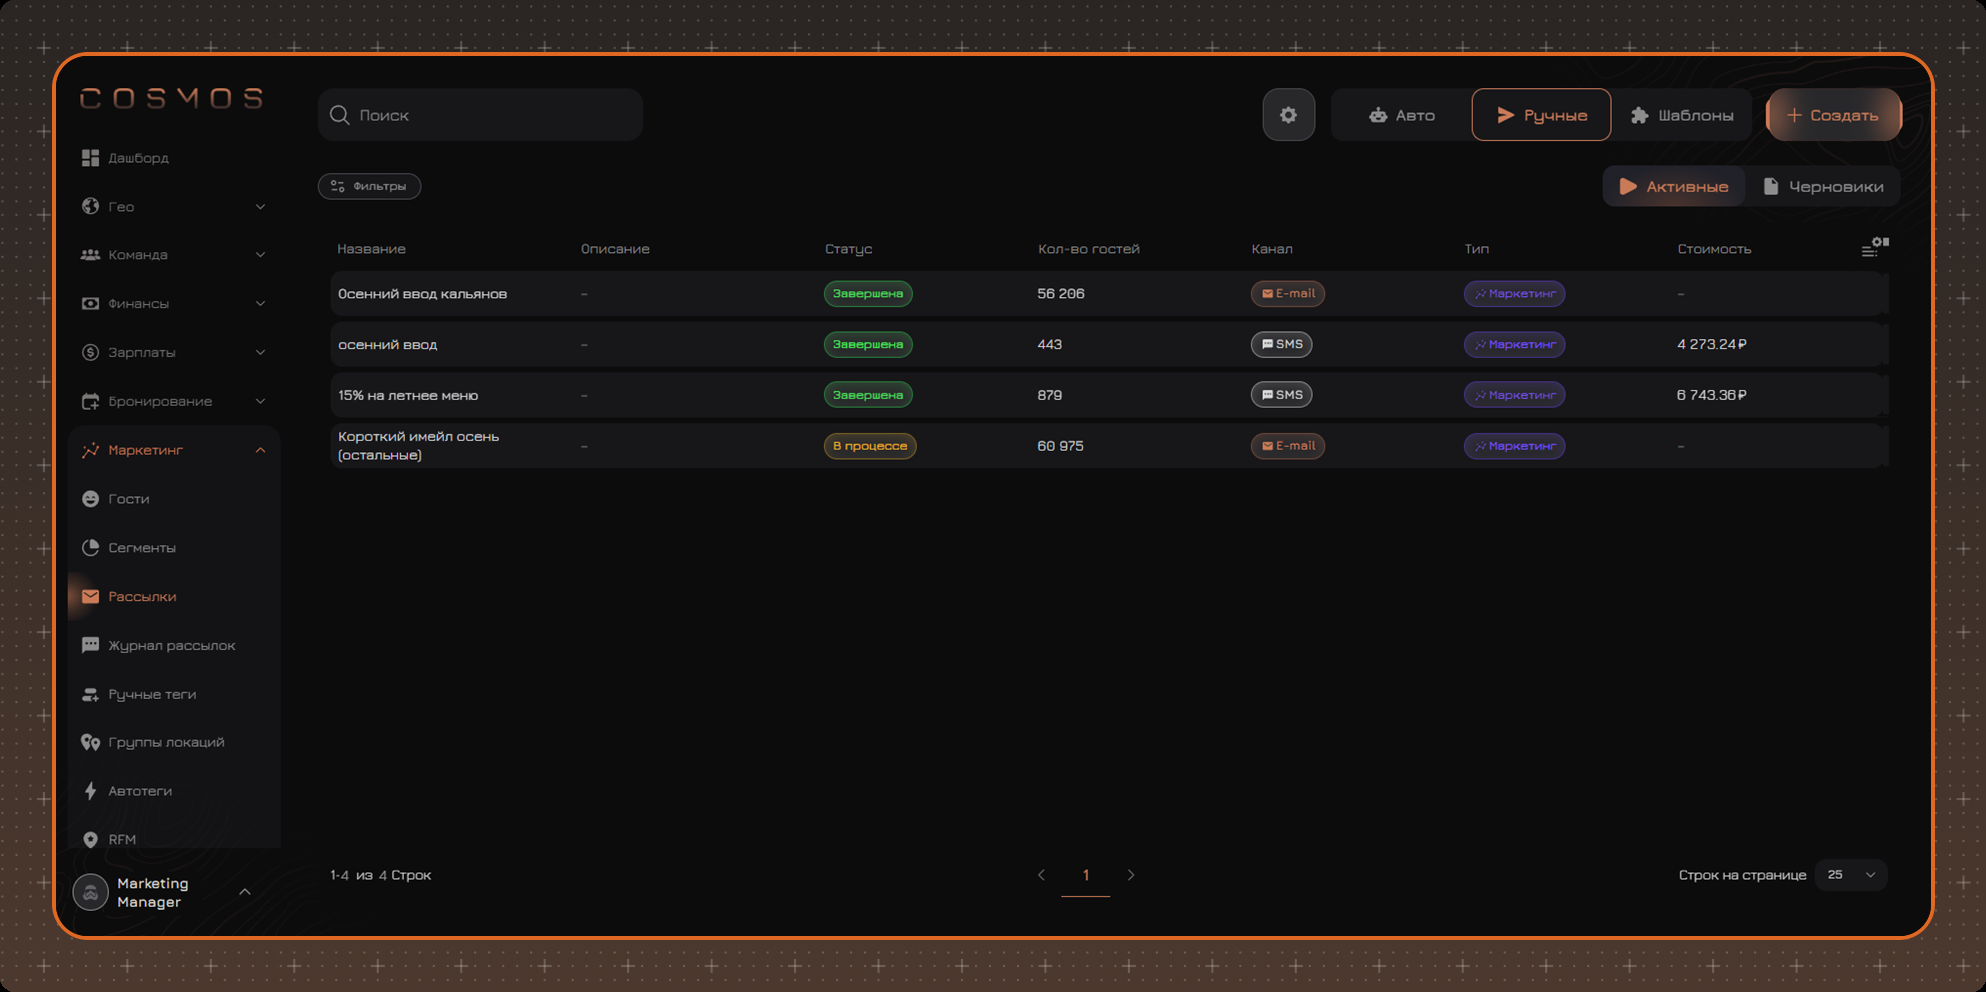
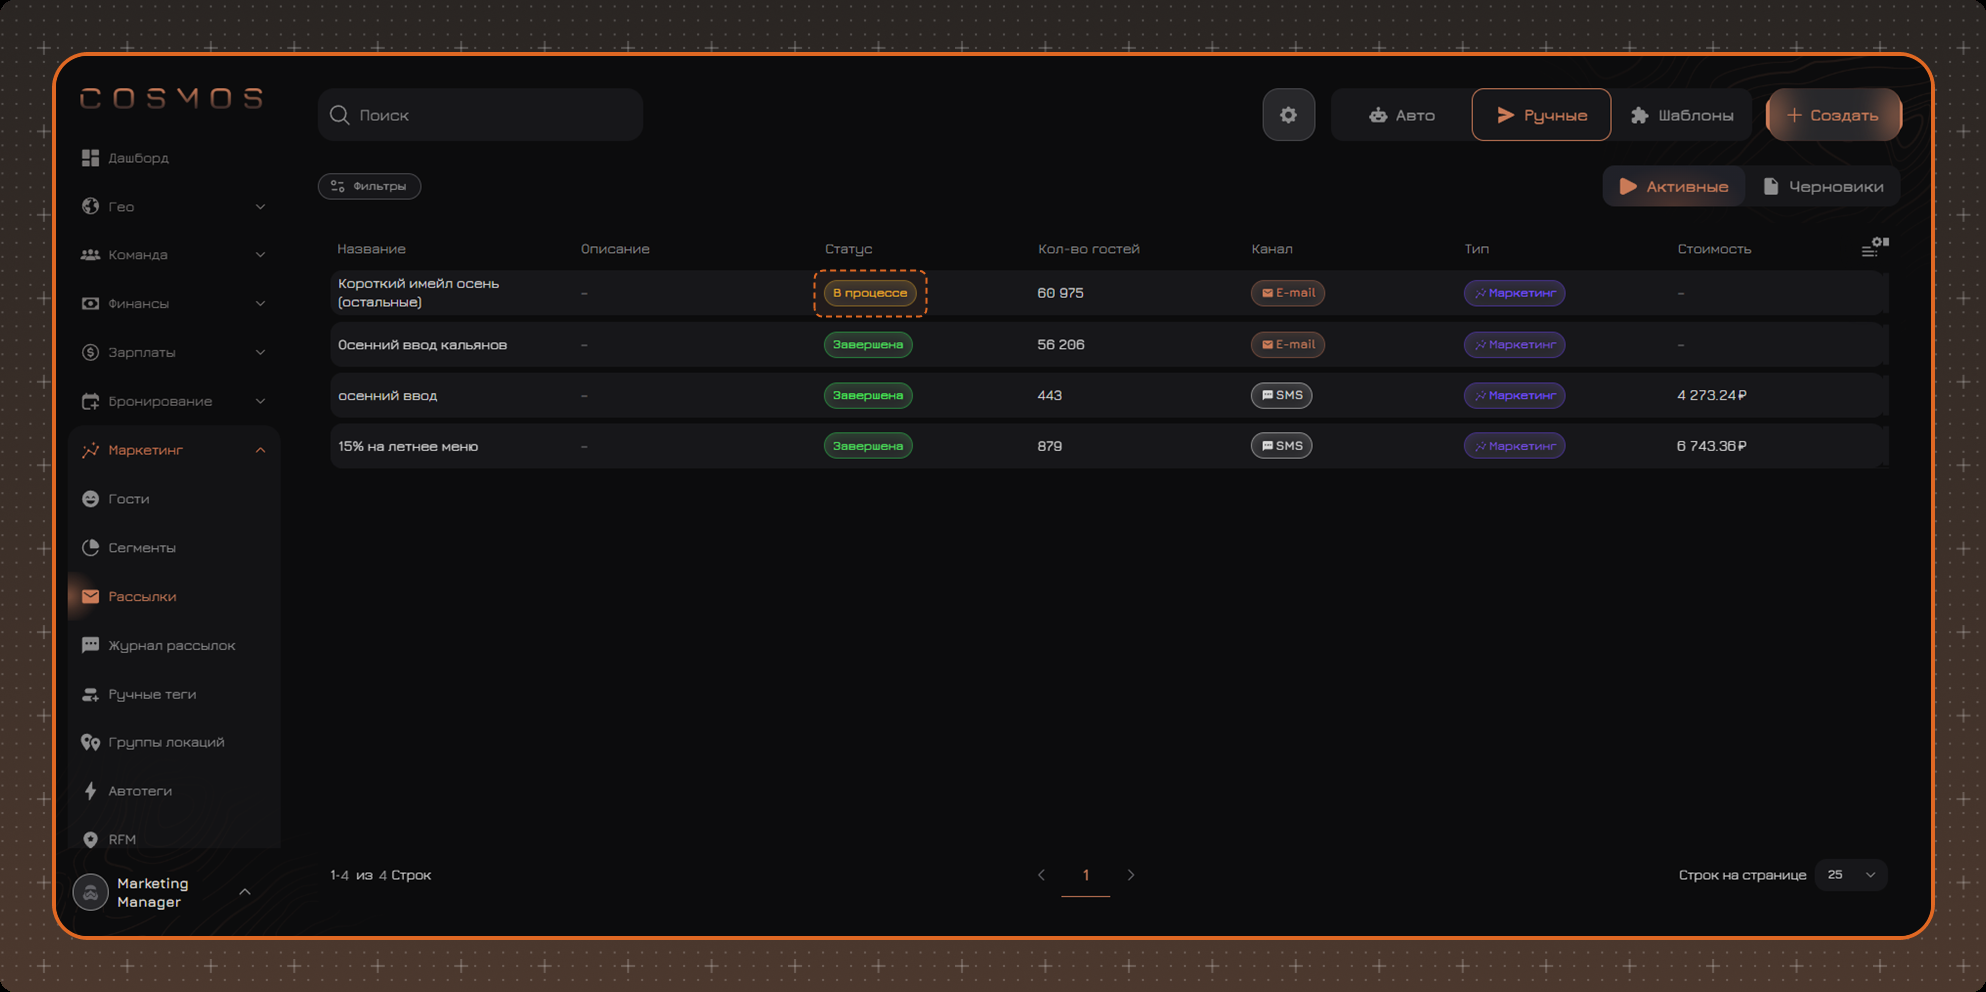
Mailings: счетчики и остановка ручной рассылки, запрет правки каскада RU и EN (CIMP-319) (#108)
- create-auto: каскад в действующей рассылке меняется только через паузу
- create-manual: скрин страницы рассылки, счетчики Количество гостей / Отправлено / Доставлено с примером каскада
- create-manual: новый раздел Остановка рассылки (статус Остановлена, дублирование, повторная отправка и ограничения)
- скрины списка ручных рассылок: рассылка В процессе сверху, пунктирная рамка вокруг статуса

diff --git a/content/ru/marketing/mailings/create-manual.md b/content/ru/marketing/mailings/create-manual.md
@@ -81,6 +81,37 @@ updatedAt: 2026-08-28
 
 ![create](/ru/images/mailings/active-list-manual.png)
 
+[[delimiter rows=1]]
+
+![recipients](/ru/images/mailings/manual-recipients.png)
+
+[[delimiter rows=1]]
+
+На странице рассылки отображаются:
+
+- **Количество гостей** - сколько гостей получают рассылку
+- **Отправлено** - сколько всего было попыток отправки по всем каналам. В каскаде, если сообщение не дошло по первому каналу, гостю отправляется сообщение по следующему каналу, и каждая попытка учитывается. Поэтому значение может быть больше количества гостей
+- **Доставлено** - сколько гостей получили сообщение
+
+На скриншоте рассылка отправлена каскадом. Обоим гостям сообщение не доставлено по первому каналу, и система отправила его по второму, поэтому при двух гостях значение **Отправлено** - 4, а **Доставлено** - 2.
+
+В колонке **Статус отправки** для каждого гостя отображается итоговый результат, с учетом всех каналов каскада.
+
+
+## Остановка рассылки
+
+Если рассылка запущена с ошибкой, например выбраны не те фильтры, ее можно остановить. Для этого нажмите правой кнопкой мыши на строку рассылки в списке и выберите **Остановить**. Также можно открыть саму рассылку и нажать **Остановить** на ее странице.
+
+Остановить можно только рассылку в статусе **В процессе**. После остановки рассылка получает статус **Остановлена**:
+
+- сообщения, которые еще ожидают отправки, не отправляются. У таких получателей на странице рассылки в колонке **Статус отправки** отображается **Остановлено**
+- сообщения, которые уже переданы на отправку, будут отправлены и могут быть доставлены
+
+[[info type=custom color=#E06823]]
+Остановленную рассылку невозможно возобновить или запустить снова. Чтобы отправить ее с исправленными настройками, продублируйте рассылку - нажмите правой кнопкой мыши на строку рассылки и выберите **Дублировать** или нажмите кнопку дублирования на странице рассылки. Откроется новая рассылка с теми же настройками. Внесите изменения и запустите ее.
+[[/info]]
+
+Гости, которым исходная рассылка уже была отправлена, получат сообщение повторно, если попадут в аудиторию новой рассылки. Чтобы этого избежать, настройте **[ограничения](/ru/marketing/mailings/info/#установка-ограничений)**.
 
 
 

diff --git a/content/en/marketing/mailings/create-manual.md b/content/en/marketing/mailings/create-manual.md
@@ -80,6 +80,37 @@ When all messages receive a final status, the mailing status changes to **Finish
 
 ![Create](/en/images/mailings/active-list-manual-en.png)
 
+[[delimiter rows=1]]
+
+![Recipients](/en/images/mailings/manual-recipients-en.png)
+
+[[delimiter rows=1]]
+
+The mailing page displays:
+
+- **Guests Amount** - how many guests receive the mailing
+- **Sent** - the total number of sending attempts through all channels. In a cascade, if the message was not delivered through the first channel, it is sent to the guest through the next channel, and each attempt is counted. That is why this value can be greater than the number of guests
+- **Delivered** - how many guests received the message
+
+In the screenshot, the mailing was sent as a cascade. The message was not delivered to either guest through the first channel, so the system sent it through the second one. That is why, with two guests, **Sent** is 4 and **Delivered** is 2.
+
+The **Delivery Status** column shows the final result for each guest, taking all cascade channels into account.
+
+
+## Stop Mailing
+
+If a mailing was started with an error, for example the wrong filters were selected, you can stop it. To do this, right-click the mailing row in the list and select **Stop**. You can also open the mailing itself and click **Stop** on its page.
+
+Only a mailing with the **In progress** status can be stopped. After it is stopped, the mailing receives the **Stopped** status:
+
+- messages that are still waiting to be sent are not sent. For such recipients, the **Delivery Status** column on the mailing page shows **Stopped**
+- messages that have already been passed for sending will be sent and may be delivered
+
+[[info type=custom color=#E06823]]
+A stopped mailing cannot be resumed or started again. To send it with corrected settings, duplicate the mailing - right-click the mailing row and select **Duplicate**, or click the duplicate button on the mailing page. A new mailing with the same settings opens. Make the changes and start it.
+[[/info]]
+
+Guests who have already been sent the original mailing will receive the message again if they are included in the audience of the new mailing. To avoid this, set up **[limits](/en/marketing/mailings/info/#setting-limits)**.
 
 [[delimiter rows=3]]
 

diff --git a/content/ru/marketing/mailings/create-auto.md b/content/ru/marketing/mailings/create-auto.md
@@ -127,6 +127,10 @@ updatedAt: 2026-08-28
 Пока результат отправки по текущему каналу неизвестен, к следующему каналу система не переходит. Попытки доставки по текущему каналу продолжаются до 24 часов.
 [[/info]]
 
+[[info type=custom color=#E06823]]
+В черновике каскад можно настраивать свободно. В действующей рассылке изменить каскад невозможно: добавить или убрать канал, поменять порядок доставки или переключиться между каскадом и одним каналом. Для этого поставьте рассылку на паузу, перестройте каскад и запустите её снова. Остальные настройки можно менять прямо в действующей рассылке.
+[[/info]]
+
 
 ## Контент
 

diff --git a/content/en/marketing/mailings/create-auto.md b/content/en/marketing/mailings/create-auto.md
@@ -124,6 +124,10 @@ The cascade runs separately for each guest:
 Until the sending result for the current channel is known, the system does not move on to the next channel. Delivery attempts through the current channel continue for up to 24 hours.
 [[/info]]
 
+[[info type=custom color=#E06823]]
+In a draft, the cascade can be configured freely. In an active mailing, the cascade cannot be changed: you cannot add or remove a channel, change the delivery order, or switch between **Cascade** and **One Channel**. To do this, pause the mailing, rebuild the cascade, and start it again. All other settings can be changed directly in the active mailing.
+[[/info]]
+
 
 ## Content
 
